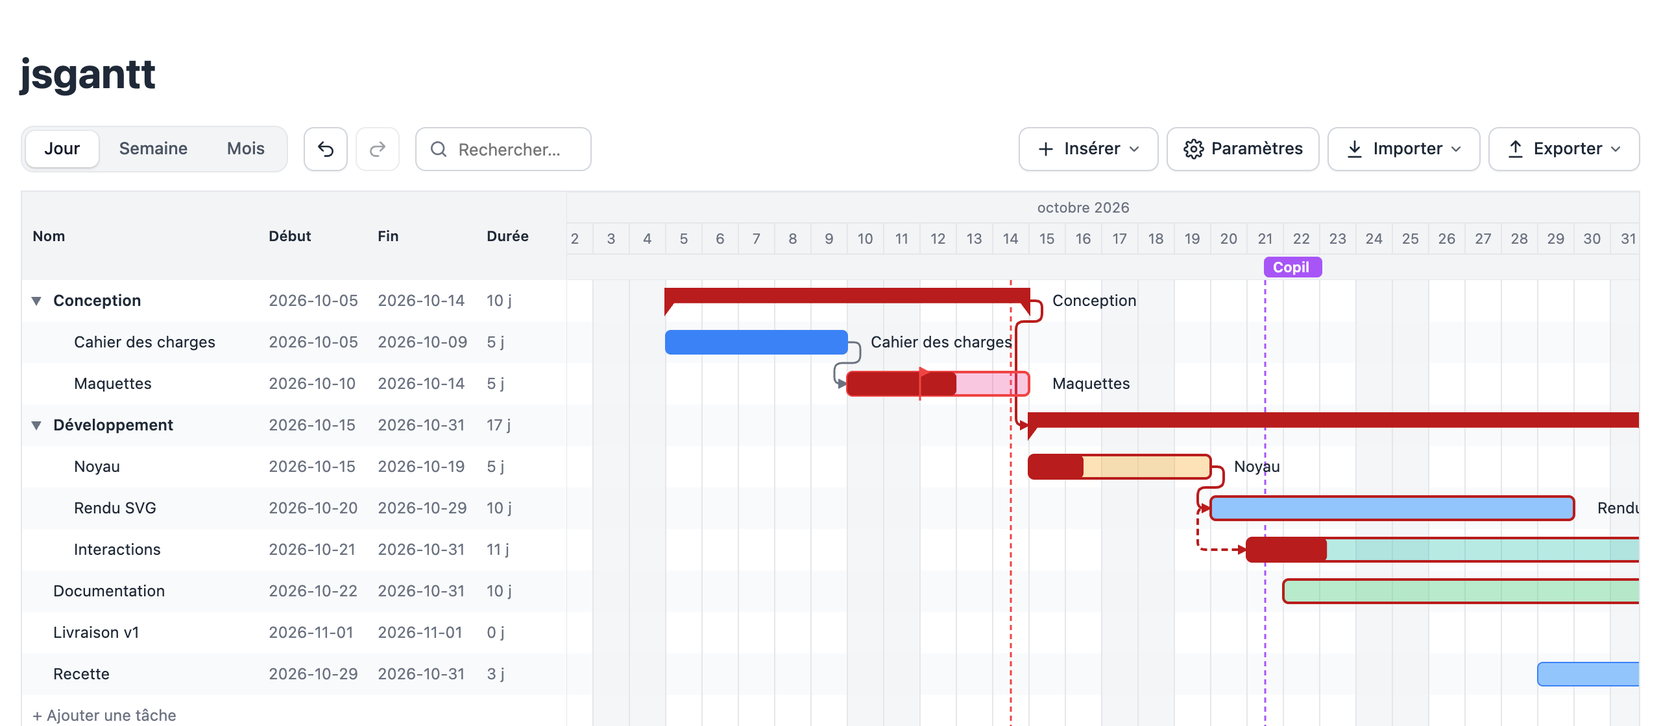
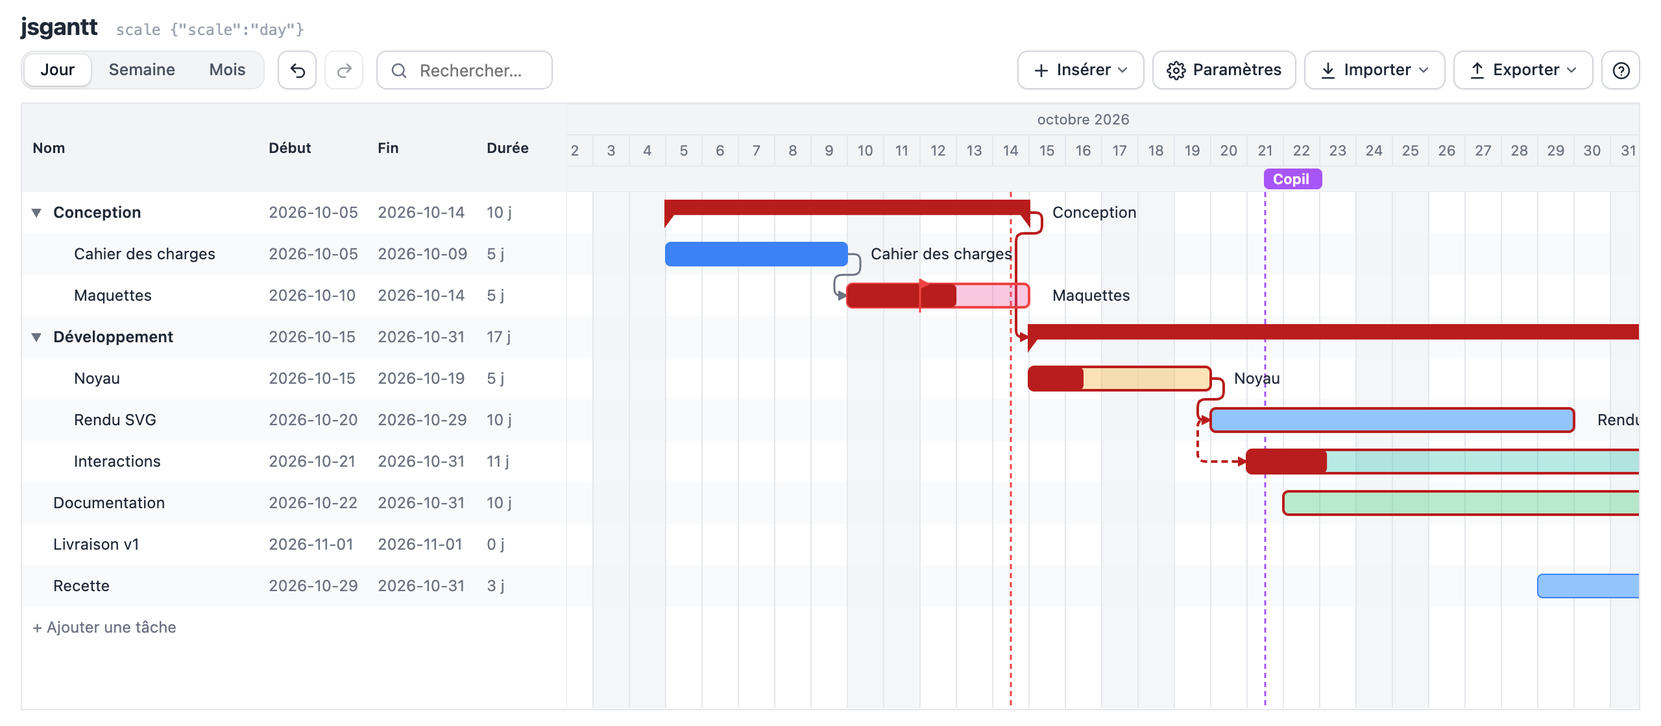
feat(démo): page compacte en pleine hauteur, aide dans une fenêtre « ? », dernière action à côté du titre
Le diagramme occupe toute la hauteur (grille et tableau jusqu'en bas, option
minHeight de la mise en page, suivi par ResizeObserver) ; titre et barre
d'outils plus compacts ; raccourcis et fonctionnement résumé dans une fenêtre
d'aide (bouton ou touche « ? ») ; paramètres plus denses ; README et captures
mis à jour.

diff --git a/demo/index.html b/demo/index.html
@@ -7,17 +7,25 @@
   <link rel="stylesheet" href="../src/gantt.css">
   <link rel="stylesheet" href="../src/themes/epure.css">
   <style>
-    body { font-family: system-ui, sans-serif; margin: 0; padding: 16px; background: #fff; color: #1f2937; }
+    html, body { height: 100%; }
+    body { font-family: system-ui, sans-serif; margin: 0; padding: 10px 16px 12px; box-sizing: border-box; display: flex; flex-direction: column; background: #fff; color: #1f2937; }
+    /* En-tête : titre et dernière action sur une ligne */
+    .topbar { display: flex; align-items: baseline; gap: 14px; min-width: 0; margin-bottom: 8px; }
+    .topbar h1 { margin: 0; font-size: 18px; font-weight: 700; letter-spacing: -.01em; flex: none; }
+    #log { flex: 1; min-width: 0; font: 11.5px/1.4 ui-monospace, monospace; color: #9ca3af; white-space: nowrap; overflow: hidden; text-overflow: ellipsis; }
+    /* Le diagramme occupe toute la hauteur restante */
+    #chart { flex: 1; min-height: 240px; display: flex; flex-direction: column; }
+    #chart > .gantt-scroll { flex: 1; min-height: 0; }
     body.dark { background: #111827; color: #e5e7eb; }
-    .toolbar { display: flex; flex-wrap: wrap; gap: 8px 12px; margin-bottom: 14px; align-items: center; }
+    .toolbar { display: flex; flex-wrap: wrap; gap: 6px 10px; margin-bottom: 10px; align-items: center; }
     .toolbar .group { display: inline-flex; align-items: center; gap: 6px; }
     .toolbar .group-label { font-size: 12px; color: #6b7280; margin-right: 2px; }
     .toolbar .spacer { flex: 1; }
     .toolbar .import { position: relative; }
     .visually-hidden { position: absolute; width: 1px; height: 1px; margin: -1px; padding: 0; overflow: hidden; clip-path: inset(50%); white-space: nowrap; border: 0; }
     .toolbar button, .toolbar .import, .toolbar select {
-      height: 34px; box-sizing: border-box; display: inline-flex; align-items: center; gap: 6px;
-      padding: 0 12px; font: 500 13px/1 system-ui, sans-serif; color: #1f2937; background: #fff;
+      height: 30px; box-sizing: border-box; display: inline-flex; align-items: center; gap: 5px;
+      padding: 0 10px; font: 500 12.5px/1 system-ui, sans-serif; color: #1f2937; background: #fff;
       border: 1px solid #d1d5db; border-radius: 8px; cursor: pointer; box-shadow: 0 1px 1px rgba(0,0,0,.04);
       transition: background .12s, border-color .12s, box-shadow .12s;
     }
@@ -25,15 +33,15 @@
     .toolbar [hidden] { display: none !important; }
     .toolbar #clear-filters { color: #2563eb; border-color: #93c5fd; }
     body.theme-epure .toolbar #clear-filters { color: #dc4c3e; }
-    .toolbar #undo, .toolbar #redo, .toolbar #clear-filters { width: 34px; padding: 0; justify-content: center; }
-    .toolbar svg { width: 16px; height: 16px; flex: none; }
+    .toolbar #undo, .toolbar #redo, .toolbar #clear-filters, .toolbar #open-help { width: 30px; padding: 0; justify-content: center; }
+    .toolbar svg { width: 15px; height: 15px; flex: none; }
     .toolbar button:hover:not(:disabled), .toolbar .import:hover { background: #f3f4f6; border-color: #c4c9d1; }
     .toolbar button:active:not(:disabled) { background: #e5e7eb; }
     .toolbar button:focus-visible, .toolbar select:focus-visible, .toolbar .import:focus-within { outline: 2px solid #2563eb; outline-offset: 2px; }
     .toolbar button:disabled { opacity: .45; cursor: not-allowed; box-shadow: none; }
     .toolbar button.toggle[aria-pressed="true"] { background: #dbeafe; border-color: #93c5fd; color: #1e3a8a; }
-    .toolbar .seg { display: inline-flex; gap: 2px; padding: 3px; background: #f3f4f6; border: 1px solid #e5e7eb; border-radius: 10px; }
-    .toolbar .seg button { height: 28px; padding: 0 14px; border: 0; border-radius: 7px; background: transparent; box-shadow: none; color: #4b5563; }
+    .toolbar .seg { display: inline-flex; gap: 2px; padding: 2px; background: #f3f4f6; border: 1px solid #e5e7eb; border-radius: 10px; }
+    .toolbar .seg button { height: 24px; padding: 0 12px; border: 0; border-radius: 7px; background: transparent; box-shadow: none; color: #4b5563; }
     .toolbar .seg button:hover:not(:disabled) { background: #e5e7eb; }
     .toolbar .seg button[aria-pressed="true"] { background: #fff; color: #111827; box-shadow: 0 1px 2px rgba(0,0,0,.15), 0 0 0 1px rgba(0,0,0,.04); }
     /* Sombre */
@@ -48,40 +56,51 @@
     body.dark .toolbar .seg button[aria-pressed="true"] { background: #374151; color: #fff; box-shadow: none; }
     .toolbar .search { position: relative; display: inline-flex; align-items: center; }
     .toolbar .search svg { position: absolute; left: 10px; color: #6b7280; pointer-events: none; }
-    .toolbar .search input { height: 34px; box-sizing: border-box; width: 136px; padding: 0 10px 0 32px; font: 13px system-ui, sans-serif; color: inherit; background: #fff; border: 1px solid #d1d5db; border-radius: 8px; }
+    .toolbar .search input { height: 30px; box-sizing: border-box; width: 136px; padding: 0 10px 0 32px; font: 13px system-ui, sans-serif; color: inherit; background: #fff; border: 1px solid #d1d5db; border-radius: 8px; }
     .toolbar .search input:focus-visible { outline: 2px solid #2563eb; outline-offset: 2px; }
     body.dark .toolbar .search input { background: #1f2937; border-color: #374151; }
-    body.theme-epure .toolbar .search input { height: 30px; border: 0; background: #f5f5f5; border-radius: 7px; }
+    body.theme-epure .toolbar .search input { height: 28px; border: 0; background: #f5f5f5; border-radius: 7px; }
     body.theme-epure .toolbar .search input:focus-visible { outline-color: #dc4c3e; }
-    #settings .owners { list-style: none; margin: 4px 0; padding: 0; display: flex; flex-direction: column; gap: 4px; }
+    #settings .owners { list-style: none; margin: 2px 0; padding: 0; display: flex; flex-direction: column; gap: 3px; }
     #settings .owners li, #settings .owners-add { display: flex; gap: 6px; align-items: center; }
-    #settings .owners input, #settings .owners-add input { flex: 1; height: 30px; box-sizing: border-box; padding: 0 8px; border: 1px solid #d1d5db; border-radius: 7px; font: 13px system-ui, sans-serif; background: inherit; color: inherit; }
-    #settings .owners button, #settings .owners-add button { height: 30px; padding: 0 10px; border: 1px solid #d1d5db; border-radius: 7px; background: #fff; color: inherit; font: 500 13px system-ui, sans-serif; cursor: pointer; }
-    #settings .owners button { width: 30px; padding: 0; display: inline-flex; align-items: center; justify-content: center; }
+    #settings .owners input, #settings .owners-add input { flex: 1; height: 28px; box-sizing: border-box; padding: 0 8px; border: 1px solid #d1d5db; border-radius: 7px; font: 13px system-ui, sans-serif; background: inherit; color: inherit; }
+    #settings .owners button, #settings .owners-add button { height: 28px; padding: 0 10px; border: 1px solid #d1d5db; border-radius: 7px; background: #fff; color: inherit; font: 500 13px system-ui, sans-serif; cursor: pointer; }
+    #settings .owners button { width: 28px; padding: 0; display: inline-flex; align-items: center; justify-content: center; }
     #settings .owners button svg { width: 15px; height: 15px; }
     body.dark #settings .owners input, body.dark #settings .owners-add input, body.dark #settings .owners button, body.dark #settings .owners-add button { background: #1f2937; border-color: #374151; }
     body.theme-epure #settings .owners input, body.theme-epure #settings .owners-add input, body.theme-epure #settings .owners button, body.theme-epure #settings .owners-add button { border: 0; background: #f5f5f5; }
-    #settings .cols { display: grid; grid-template-columns: 1fr 1fr; gap: 6px 16px; margin: 4px 0; }
-    #settings .cols label { display: flex; align-items: center; gap: 8px; font-size: 13px; }
-    #log { margin-top: 12px; font: 12px/1.5 ui-monospace, monospace; max-height: 140px; overflow: auto; color: #6b7280; }
-    #chart { --gantt-max-height: 520px; }
-    .help { margin-top: 12px; font-size: 13px; color: #4b5563; }
-    .help summary { cursor: pointer; font-weight: 600; }
-    .help table { border-collapse: collapse; margin-top: 8px; }
-    .help th { text-align: left; padding: 4px 16px 4px 0; vertical-align: top; white-space: nowrap; color: #1f2937; }
-    .help td { padding: 4px 0; }
-    .help kbd { font: 12px ui-monospace, monospace; padding: 1px 5px; border: 1px solid #d1d5db; border-bottom-width: 2px; border-radius: 4px; background: #f9fafb; color: #1f2937; }
-    body.dark .help { color: #9ca3af; }
-    body.dark .help th { color: #e5e7eb; }
-    body.dark .help kbd { background: #1f2937; border-color: #374151; color: #e5e7eb; }
+    #settings .cols { display: grid; grid-template-columns: 1fr 1fr 1fr; gap: 4px 12px; margin: 2px 0 4px; }
+    #settings .cols label { display: flex; align-items: center; gap: 6px; font-size: 12.5px; }
+    body.dark #log { color: #6b7280; }
+    /* Fenêtre d'aide (bouton « ? ») */
+    #help { border: 1px solid #d1d5db; border-radius: 14px; padding: 0; width: min(640px, calc(100vw - 32px)); max-height: calc(100vh - 48px); color: #1f2937; background: #fff; box-shadow: 0 20px 50px rgba(0,0,0,.25); }
+    #help::backdrop { background: rgba(17,24,39,.45); }
+    #help form { padding: 14px 18px 12px; }
+    #help h2 { margin: 0 0 8px; font-size: 15px; outline: none; }
+    #help h3 { margin: 12px 0 6px; padding-top: 10px; border-top: 1px solid #e5e7eb; font-size: 11px; font-weight: 600; text-transform: uppercase; letter-spacing: .05em; color: #6b7280; }
+    #help ul { margin: 0; padding-left: 18px; font-size: 13px; line-height: 1.45; }
+    #help li + li { margin-top: 3px; }
+    #help table { border-collapse: collapse; font-size: 12.5px; }
+    #help th { text-align: left; padding: 3px 14px 3px 0; vertical-align: top; white-space: nowrap; font-weight: 600; }
+    #help td { padding: 3px 0; line-height: 1.45; }
+    #help kbd { font: 11.5px ui-monospace, monospace; padding: 0 4px; border: 1px solid #d1d5db; border-bottom-width: 2px; border-radius: 4px; background: #f9fafb; color: #1f2937; }
+    #help menu { display: flex; justify-content: flex-end; margin: 12px 0 0; padding: 0; }
+    #help menu button { height: 30px; padding: 0 14px; border: 1px solid #d1d5db; border-radius: 8px; background: #fff; color: inherit; font: 500 13px system-ui, sans-serif; cursor: pointer; }
+    #help :focus-visible { outline: 2px solid #2563eb; outline-offset: 2px; }
+    body.dark #help { background: #111827; color: #e5e7eb; border-color: #374151; }
+    body.dark #help h3 { border-color: #374151; color: #9ca3af; }
+    body.dark #help kbd { background: #1f2937; border-color: #374151; color: #e5e7eb; }
+    body.dark #help menu button { background: #1f2937; border-color: #374151; }
+    body.theme-epure #help { border-radius: 12px; border-color: #ececec; color: #202020; }
+    body.theme-epure #help menu button { border: 0; background: #f5f5f5; border-radius: 7px; }
     /* Boutons du thème Épure */
     body.theme-epure .toolbar { gap: 4px 8px; }
     body.theme-epure .toolbar button, body.theme-epure .toolbar .import, body.theme-epure .toolbar select {
-      border: 0; background: transparent; color: #202020; border-radius: 7px; padding: 0 10px; height: 30px; font-size: 13px; box-shadow: none; cursor: pointer;
+      border: 0; background: transparent; color: #202020; border-radius: 7px; padding: 0 9px; height: 28px; font-size: 12.5px; box-shadow: none; cursor: pointer;
     }
     body.theme-epure .toolbar button:hover:not(:disabled), body.theme-epure .toolbar .import:hover { background: #f5f5f5; }
     body.theme-epure .toolbar .seg { background: #f1f1f1; border: 0; border-radius: 10px; margin-right: 8px; }
-    body.theme-epure .toolbar .seg button { color: #666; height: 24px; padding: 0 12px; }
+    body.theme-epure .toolbar .seg button { color: #666; height: 22px; padding: 0 11px; }
     body.theme-epure .toolbar .seg button:hover:not(:disabled) { background: transparent; color: #202020; }
     body.theme-epure .toolbar .seg button[aria-pressed="true"] { background: #fff; color: #202020; box-shadow: 0 1px 2px rgba(0,0,0,.15); }
     body.theme-epure .toolbar button.toggle[aria-pressed="true"] { background: #fdf0ef; color: #dc4c3e; }
@@ -103,28 +122,28 @@
     body.theme-epure .toolbar .menu-list button.menu-item:hover, body.theme-epure .toolbar .menu-list button.menu-item:focus-visible { background: #f5f5f5; }
 
     /* Modale des paramètres */
-    #settings { border: 1px solid #d1d5db; border-radius: 14px; padding: 0; width: min(460px, calc(100vw - 32px)); color: #1f2937; background: #fff; box-shadow: 0 20px 50px rgba(0,0,0,.25); }
+    #settings { border: 1px solid #d1d5db; border-radius: 14px; padding: 0; width: min(440px, calc(100vw - 32px)); color: #1f2937; background: #fff; box-shadow: 0 20px 50px rgba(0,0,0,.25); }
     #settings::backdrop { background: rgba(17,24,39,.45); }
-    #settings form { padding: 18px 22px 16px; }
-    #settings h2 { margin: 0 0 6px; font-size: 17px; }
-    #settings h3 { margin: 14px 0 4px; padding-top: 12px; border-top: 1px solid #e5e7eb; font-size: 11px; font-weight: 600; text-transform: uppercase; letter-spacing: .05em; color: #6b7280; }
+    #settings form { padding: 14px 18px 12px; }
+    #settings h2 { margin: 0 0 4px; font-size: 15px; }
+    #settings h3 { margin: 10px 0 2px; padding-top: 9px; border-top: 1px solid #e5e7eb; font-size: 11px; font-weight: 600; text-transform: uppercase; letter-spacing: .05em; color: #6b7280; }
     #settings section:first-of-type h3 { border-top: 0; padding-top: 0; }
-    #settings .row { display: flex; align-items: center; justify-content: space-between; gap: 12px; padding: 5px 0; font-size: 14px; }
-    #settings select { height: 32px; padding: 0 8px; border: 1px solid #d1d5db; border-radius: 8px; background: #fff; color: inherit; font: 500 13px system-ui, sans-serif; max-width: 62%; }
+    #settings .row { display: flex; align-items: center; justify-content: space-between; gap: 10px; padding: 3px 0; font-size: 13px; }
+    #settings select { height: 28px; padding: 0 8px; border: 1px solid #d1d5db; border-radius: 8px; background: #fff; color: inherit; font: 500 13px system-ui, sans-serif; max-width: 62%; }
     #settings select:disabled { opacity: .5; }
-    #settings input[type="date"] { height: 32px; padding: 0 8px; border: 1px solid #d1d5db; border-radius: 8px; background: #fff; color: inherit; font: 500 13px system-ui, sans-serif; }
+    #settings input[type="date"] { height: 28px; padding: 0 8px; border: 1px solid #d1d5db; border-radius: 8px; background: #fff; color: inherit; font: 500 13px system-ui, sans-serif; }
     #settings .row[hidden] { display: none; }
     #settings .row.actions { justify-content: flex-start; gap: 8px; }
-    #settings .row.actions button { height: 32px; padding: 0 12px; border: 1px solid #d1d5db; border-radius: 8px; background: #fff; color: inherit; font: 500 13px system-ui, sans-serif; cursor: pointer; }
+    #settings .row.actions button { height: 28px; padding: 0 12px; border: 1px solid #d1d5db; border-radius: 8px; background: #fff; color: inherit; font: 500 13px system-ui, sans-serif; cursor: pointer; }
     #settings .row.actions button:hover { background: #f3f4f6; }
     body.dark #settings input[type="date"], body.dark #settings .row.actions button { background: #1f2937; border-color: #374151; }
     body.dark #settings .row.actions button:hover { background: #273449; }
     body.theme-epure #settings input[type="date"], body.theme-epure #settings .row.actions button { border: 0; background: #f5f5f5; border-radius: 7px; }
     body.theme-epure #settings .row.actions button:hover { background: #ececec; }
-    #settings input[type="checkbox"] { width: 18px; height: 18px; accent-color: #2563eb; }
-    #settings .hint { margin: 2px 0 0; font-size: 12px; color: #6b7280; }
-    #settings menu { display: flex; justify-content: flex-end; margin: 16px 0 0; padding: 0; }
-    #settings menu button { height: 34px; padding: 0 16px; border: 1px solid #d1d5db; border-radius: 8px; background: #fff; color: inherit; font: 500 13px system-ui, sans-serif; cursor: pointer; }
+    #settings input[type="checkbox"] { width: 16px; height: 16px; accent-color: #2563eb; }
+    #settings .hint { margin: 1px 0 2px; font-size: 11.5px; line-height: 1.35; color: #6b7280; }
+    #settings menu { display: flex; justify-content: flex-end; margin: 12px 0 0; padding: 0; }
+    #settings menu button { height: 30px; padding: 0 14px; border: 1px solid #d1d5db; border-radius: 8px; background: #fff; color: inherit; font: 500 13px system-ui, sans-serif; cursor: pointer; }
     #settings menu button:hover { background: #f3f4f6; }
     #settings :focus-visible { outline: 2px solid #2563eb; outline-offset: 2px; }
     body.dark #settings { background: #111827; color: #e5e7eb; border-color: #374151; }
@@ -140,7 +159,10 @@
   <script defer src="https://stats.charlescoiffier.fr/script.js" data-website-id="df9b36a6-a121-46e0-8b4b-881f370e58f9" data-domains="jsgantt.charlescoiffier.fr" data-do-not-track="true"></script>
 </head>
 <body>
-  <h1>jsgantt</h1>
+  <header class="topbar">
+    <h1>jsgantt</h1>
+    <output id="log" title="Dernière action" data-i18n-title="log.title"></output>
+  </header>
   <div class="toolbar" id="toolbar" role="toolbar" aria-label="Actions du diagramme" data-i18n-aria="toolbar">
     <div class="seg" role="group" aria-label="Échelle" data-i18n-aria="group.scale">
       <button data-scale="day" aria-pressed="false" data-i18n="scale.day">Jour</button>
@@ -187,6 +209,7 @@
           <button class="menu-item" role="menuitem" id="exp-print" title="Imprimer" data-i18n-title="print" data-i18n="print.item">Imprimer…</button>
         </div>
       </div>
+      <button id="open-help" aria-haspopup="dialog" title="Aide et raccourcis (?)" data-i18n-title="help.open"><svg viewBox="0 0 24 24" fill="none" stroke="currentColor" stroke-width="2" stroke-linecap="round" stroke-linejoin="round" aria-hidden="true"><circle cx="12" cy="12" r="9.5"/><path d="M9.3 9.2a2.8 2.8 0 0 1 5.4 1c0 1.9-2.7 2.5-2.7 4"/><path d="M12 17.3h.01"/></svg><span class="visually-hidden" data-i18n="help.dialog">Aide</span></button>
     </div>
     <input id="imp-file" type="file" hidden>
   </div>
@@ -301,9 +324,13 @@
       <menu><button value="close" data-i18n="close">Fermer</button></menu>
     </form>
   </dialog>
-  <details class="help">
-    <summary data-i18n="help.title">Raccourcis clavier</summary>
-    <table>
+  <dialog id="help" aria-labelledby="help-title">
+    <form method="dialog">
+      <h2 id="help-title" tabindex="-1" autofocus data-i18n="help.dialog">Aide</h2>
+      <h3 data-i18n="help.how">Fonctionnement</h3>
+      <ul data-i18n-html="help.points"></ul>
+      <h3 data-i18n="help.title">Raccourcis clavier</h3>
+      <table>
       <tr><th data-i18n="help.nav.h">Naviguer</th><td data-i18n-html="help.nav"></td></tr>
       <tr><th data-i18n="help.create.h">Créer</th><td data-i18n-html="help.create"></td></tr>
       <tr><th data-i18n="help.delete.h">Supprimer</th><td data-i18n-html="help.delete"></td></tr>
@@ -314,9 +341,10 @@
       <tr><th data-i18n="help.constraint.h">Contrainte</th><td data-i18n-html="help.constraint"></td></tr>
       <tr><th data-i18n="help.links.h">Liens</th><td data-i18n-html="help.links"></td></tr>
       <tr><th data-i18n="help.history.h">Historique</th><td data-i18n-html="help.history"></td></tr>
-    </table>
-  </details>
-  <div id="log" aria-live="polite"></div>
+      </table>
+      <menu><button value="close" data-i18n="close">Fermer</button></menu>
+    </form>
+  </dialog>
 
   <script type="module">
     import { Gantt } from '../src/gantt.js';
@@ -359,7 +387,14 @@
         'cal.lag.hint': 'Sans jour non travaillé, l\'unité du décalage est sans effet.', close: 'Fermer',
         'log.error': 'erreur', 'log.import': 'import', 'log.warning': 'avertissement', 'fmt.msp': 'MS Project (XML)',
         'export.csv': 'Tableur (Excel, Numbers, LibreOffice)', 'export.ics': 'Agenda (Google Agenda, Outlook, Calendrier)', 'export.msp': 'MS Project, Merlin Project, ProjectLibre…',
-        'help.title': 'Raccourcis clavier',
+        'help.title': 'Raccourcis clavier', 'help.dialog': 'Aide', 'help.how': 'Fonctionnement', 'help.open': 'Aide et raccourcis (?)', 'log.title': 'Dernière action',
+        'help.points': '<li><strong>Glisser une barre</strong> la déplace, ses bords changent ses dates, le petit triangle règle l\'avancement ; les tâches liées suivent.</li>'
+          + '<li><strong>Relier deux tâches</strong> : glisser un des ronds au bout d\'une barre vers une autre barre (le type dépend des bouts reliés).</li>'
+          + '<li><strong>Au survol d\'une ligne</strong> : poignée pour réordonner, « + » pour ajouter, crayon pour les propriétés (couleur, responsable, contrainte, suppression).</li>'
+          + '<li><strong>Tableau</strong> : double-clic sur une cellule pour la modifier, clic sur un en-tête pour trier, entonnoir pour filtrer, bord droit pour l\'élargir.</li>'
+          + '<li><strong>Insérer</strong> : un repère (une date clé) ou une zone colorée (une période).</li>'
+          + '<li><strong>Paramètres</strong> : colonnes, responsables, calendrier, chemin critique ; <strong>Importer / Exporter</strong> : JSON, CSV, MS Project, iCalendar, SVG, PDF.</li>'
+          + '<li>Tout est <strong>annulable</strong> (<kbd>Ctrl</kbd>/<kbd>Cmd</kbd>+<kbd>Z</kbd>), et rien n\'est envoyé à un serveur.</li>',
         'help.nav.h': 'Naviguer', 'help.create.h': 'Créer', 'help.delete.h': 'Supprimer', 'help.dates.h': 'Dates', 'help.structure.h': 'Structure',
         'help.progress.h': 'Progression', 'help.links.h': 'Liens', 'help.history.h': 'Historique', 'help.constraint.h': 'Contrainte',
         'help.constraint': `${K('C')} contrainte de date de la tâche (aussi dans les propriétés)`,
@@ -405,7 +440,14 @@
         'cal.lag.hint': 'Without non-working days, the lag unit has no effect.', close: 'Close',
         'log.error': 'error', 'log.import': 'import', 'log.warning': 'warning', 'fmt.msp': 'MS Project (XML)',
         'export.csv': 'Spreadsheet (Excel, Numbers, LibreOffice)', 'export.ics': 'Calendar (Google Calendar, Outlook, Apple Calendar)', 'export.msp': 'MS Project, Merlin Project, ProjectLibre…',
-        'help.title': 'Keyboard shortcuts',
+        'help.title': 'Keyboard shortcuts', 'help.dialog': 'Help', 'help.how': 'How it works', 'help.open': 'Help and shortcuts (?)', 'log.title': 'Last action',
+        'help.points': '<li><strong>Drag a bar</strong> to move it, its edges to change its dates, the small triangle to set progress; linked tasks follow.</li>'
+          + '<li><strong>Link two tasks</strong>: drag one of the dots at the end of a bar onto another bar (the type depends on the ends).</li>'
+          + '<li><strong>Hovering a row</strong>: grip to reorder, “+” to add, pencil for properties (color, owner, constraint, deletion).</li>'
+          + '<li><strong>Table</strong>: double-click a cell to edit it, click a header to sort, funnel to filter, right edge to widen.</li>'
+          + '<li><strong>Insert</strong>: a marker (a key date) or a colored zone (a period).</li>'
+          + '<li><strong>Settings</strong>: columns, owners, calendar, critical path; <strong>Import / Export</strong>: JSON, CSV, MS Project, iCalendar, SVG, PDF.</li>'
+          + '<li>Everything can be <strong>undone</strong> (<kbd>Ctrl</kbd>/<kbd>Cmd</kbd>+<kbd>Z</kbd>), and nothing is sent to a server.</li>',
         'help.nav.h': 'Navigate', 'help.create.h': 'Create', 'help.delete.h': 'Delete', 'help.dates.h': 'Dates', 'help.structure.h': 'Structure',
         'help.progress.h': 'Progress', 'help.links.h': 'Links', 'help.history.h': 'History', 'help.constraint.h': 'Constraint',
         'help.constraint': `${K('C')} date constraint of the task (also in the properties)`,
@@ -468,8 +510,10 @@
     window.gantt = gantt;
 
     const log = document.getElementById('log');
+    // Seule la dernière action est affichée, à côté du titre (le texte complet en infobulle).
     const write = (kind, detail) => {
-      log.prepend(Object.assign(document.createElement('div'), { textContent: `${kind} ${JSON.stringify(detail)}` }));
+      log.textContent = `${kind} ${JSON.stringify(detail)}`;
+      log.title = log.textContent;
     };
     for (const name of ['change', 'select', 'invalid', 'scale']) gantt.on(name, (d) => write(name, d));
 
@@ -699,6 +743,18 @@
     // Modale des paramètres
     const settings = $('settings');
     $('open-settings').onclick = () => settings.showModal();
+    // Aide : bouton « ? » ou touche « ? » (hors saisie)
+    const help = $('help');
+    $('open-help').onclick = () => help.showModal();
+    help.addEventListener('click', (e) => {
+      if (e.target === help) help.close();
+    });
+    document.addEventListener('keydown', (e) => {
+      if (e.key !== '?' || e.ctrlKey || e.metaKey || e.altKey) return;
+      if (e.target.closest?.('input, textarea, select, [contenteditable]') || document.querySelector('dialog[open], .gantt-popover')) return;
+      e.preventDefault();
+      help.showModal();
+    });
     settings.addEventListener('click', (e) => {
       if (e.target === settings) settings.close();
     });

diff --git a/src/gantt.js b/src/gantt.js
@@ -68,6 +68,11 @@ export class Gantt {
     this.detach = attachInteractions(this);
     this.detachA11y = attachA11y(this);
     this.detachKeyboard = attachKeyboard(this);
+    // Conteneur plus haut que le contenu (diagramme en pleine hauteur) : la grille suit sa taille.
+    this.resizeObserver = typeof ResizeObserver === 'function' ? new ResizeObserver(() => {
+      if (this.layout && this.scroller.clientHeight !== this.viewHeight) this.render();
+    }) : null;
+    this.resizeObserver?.observe(this.scroller);
     // À l'impression, les couches sont recomposées en un seul dessin (comme pour l'export SVG).
     this.onBeforePrint = () => {
       this.onAfterPrint();
@@ -84,6 +89,7 @@ export class Gantt {
   }
 
   destroy() {
+    this.resizeObserver?.disconnect();
     this.detach();
     this.detachKeyboard();
     this.detachA11y();
@@ -145,13 +151,16 @@ export class Gantt {
     }
   }
 
-  render({ model = this.model, dragId = null } = {}) {
+  render({ model = this.model, dragId = null } = {}, again = true) {
     this.root.classList.toggle('is-readonly', this.readonly);
+    this.viewHeight = this.scroller.clientHeight;
     this.layout = computeLayout(model, this.timescale, this.metrics, {
       ...this.state, today: todayDay(), showAdd: !this.readonly, showCritical: this.showCritical, i18n: this.i18n,
       columns: this.#columnSpecs, sort: this.view.sort, filter: this.view.filter, tableWidth: this.view.tableWidth,
       barLabel: this.view.barLabel,
       filters: this.view.filters,
+      // 1 px de marge : la hauteur réelle du conteneur peut être fractionnaire (barre de défilement inutile sinon).
+      minHeight: Math.max(0, (this.viewHeight ?? 0) - 1),
       weekStart: this.weekStart,
       frozenRows: dragId && this.layout ? this.layout.rowsInfo : undefined,
     });
@@ -163,6 +172,8 @@ export class Gantt {
     this.parts = parts;
     this.svg = parts.main;
     syncAria(this);
+    // Une barre de défilement apparue (ou disparue) change la hauteur visible : un second rendu ajuste la grille.
+    if (again && this.scroller.clientHeight !== this.viewHeight) this.render({ model, dragId }, false);
   }
 
   setScale(scale) {

diff --git a/test/layout.test.js b/test/layout.test.js
@@ -379,3 +379,12 @@ test('couleur de tâche et texte au bout des barres', () => {
   assert.deepEqual(owner.table.columns.map((c) => [c.id, c.label, c.width]).slice(1), [['owner', 'Responsable', 96]]);
   assert.deepEqual(owner.table.rows[0].cells.map((c) => c.text), ['Ana']);
 });
+
+test('hauteur minimale : la grille et le tableau descendent jusqu’en bas du conteneur', () => {
+  const m = new GanttModel({ tasks: [t('a', '2026-10-05', '2026-10-07')] });
+  assert.equal(computeLayout(m, ts(), metrics).height, 48 + 32);
+  const tall = computeLayout(m, ts(), metrics, { minHeight: 400.6 });
+  assert.equal(tall.height, 400);
+  assert.equal(tall.rows.length, 1);
+  assert.equal(computeLayout(m, ts(), metrics, { minHeight: 10 }).height, 48 + 32);
+});

diff --git a/src/renderer.js b/src/renderer.js
@@ -137,7 +137,8 @@ export function computeLayout(model, ts, metrics, state = {}) {
   });
   const width = tableWidth + ts.totalWidth;
   const addRow = state.showAdd ? { y: headerHeight + rowsInfo.length * rowHeight, alt: rowsInfo.length % 2 === 1 } : null;
-  const height = headerHeight + (rowsInfo.length + (addRow ? 1 : 0)) * rowHeight;
+  // `minHeight` : hauteur visible du conteneur, pour que grille et tableau descendent jusqu'en bas.
+  const height = Math.max(headerHeight + (rowsInfo.length + (addRow ? 1 : 0)) * rowHeight, Math.floor(state.minHeight ?? 0));
 
   const shift = (cell) => ({ ...cell, x: cell.x + tableWidth });
   const cells = ts.headerCells();
